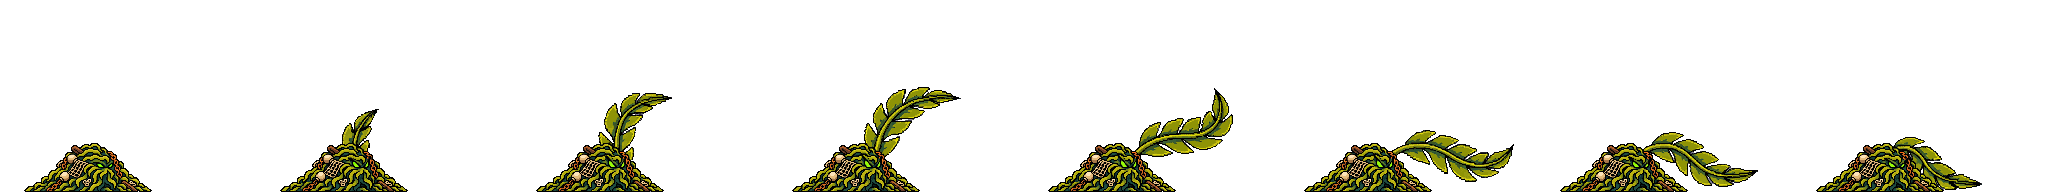
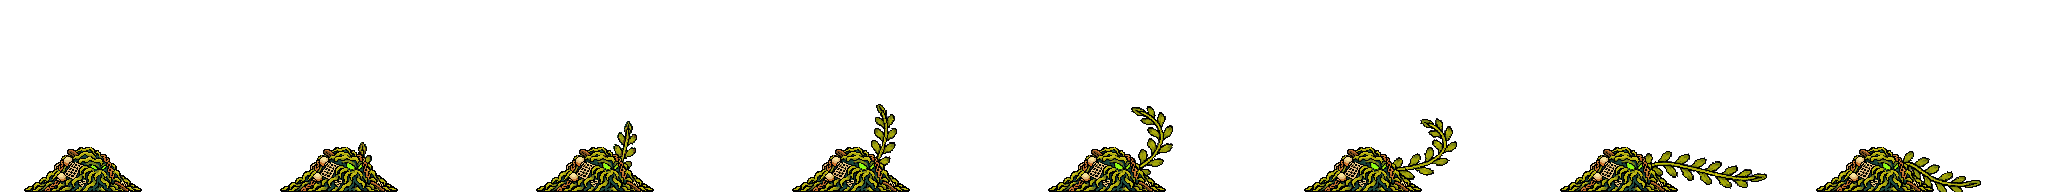
Sargathoth S1: regenerate Frond Lash from the animated base; register idle, walk and combo
Claude-Session: https://claude.ai/code/session_01SJ9dCySjuXm14tJsXqHrRK

diff --git a/src/presentation.ts b/src/presentation.ts
@@ -62,10 +62,11 @@ const S2_NATIVE={scale:194/256,anchor:31+128*194/256};
 // Tlézcatl Stage 1 strips: the tlezcatl-s1 base still, a 128x59 sprite at x=64 in a 256x192 frame, keyed with tools/key_render.py.
 const TZ1_NATIVE={scale:128/256,anchor:64+128*128/256};
 // Tlézcatl Stage 1 attack strips: generated from the same base shifted 40px left (sprite at x=24) so lunges and the tail whip stay in the frame.
-// Sargathoth Stage 1 strips: the sargathoth-s1 base still, a 128x49 kelp mound at x=64 in a 256x192 frame, keyed with tools/key_render.py.
-const SG1_NATIVE={scale:128/256,anchor:64+128*128/256};
-// Sargathoth Stage 1 attack strips: the base shifted 40px left (sprite at x=24) so the fronds have room to lash.
-const SG1_LEFT={scale:128/256,anchor:24+128*128/256};
+// Sargathoth Stage 1 strips (tools/sargathoth_s1_anim.py): the sargathoth-s1 base still, a 236px-wide mound at x=10 in a 256x192 frame.
+const SG1_NATIVE={scale:236/256,anchor:10+128*236/256};
+// Sargathoth Stage 1 attack strips: generated from that base halved to 118px (PixelLab inputs cap at 256, so there is no room to shift
+// the full-size one for reach) and shifted to x=24. Scale is half the native one, so the mound draws at the same size as the idle.
+const SG1_LEFT={scale:118/256,anchor:24+128*118/256};
 const TZ1_LEFT={scale:128/256,anchor:24+128*128/256};
 // Tlézcatl Stage 2 strips: the tlezcatl-s2 base still, a 157x125 semi-upright sprite at x=49 in a 256x192 frame, keyed with tools/key_render.py.
 const TZ2_NATIVE={scale:157/256,anchor:49+128*157/256};
@@ -933,9 +934,10 @@ export const SPRITES:Record<string,Form&{stages?:Record<number,Form>}>={
   spitBrew:{src:'assets/myrmex-s2-spit-brew.png',frames:5,fps:8,once:true,...MX2_LEFT},spitHold:{src:'assets/myrmex-s2-spit-hold.png',frames:4,fps:8,...MX2_LEFT},
   spitThrow:{src:'assets/myrmex-s2-spit-throw.png',frames:7,fps:18,once:true,impact:1,...MX2_LEFT,mouth:[122,112]}},
   stages:{1:MYRMEX_S1,3:MYRMEX_S3}},
- // Sargathoth (mass of kelp grown through maritime debris). Stage 1 so far: the base still as a one-frame idle, plus the Frond Lash light
- // combo (swipe, backhand, net-wrapping whip). Everything else falls back to the idle until it is animated; see docs/SARGATHOTH_KIT.md.
- 'Sargathoth':{width:120,anims:{idle:{src:'assets/sargathoth-s1-idle.png',frames:1,fps:1,...SG1_NATIVE},
+ // Sargathoth (mass of kelp grown through maritime debris). Stage 1 so far: breathing idle, lumbering walk, and the Frond Lash light combo
+ // (swipe, backhand with a wind-up behind the mound, net-wrapping whip). Everything else falls back to the idle until it is animated;
+ // see docs/SARGATHOTH_KIT.md.
+ 'Sargathoth':{width:120,anims:{idle:{src:'assets/sargathoth-s1-idle.png',frames:8,fps:8,...SG1_NATIVE},walk:{src:'assets/sargathoth-s1-walk.png',frames:8,fps:10,...SG1_NATIVE},
   light1:{src:'assets/sargathoth-s1-light1.png',frames:8,fps:24,once:true,...SG1_LEFT},light2:{src:'assets/sargathoth-s1-light2.png',frames:8,fps:21,once:true,...SG1_LEFT},
   light3:{src:'assets/sargathoth-s1-light3.png',frames:8,fps:20,once:true,...SG1_LEFT}}},
 };
